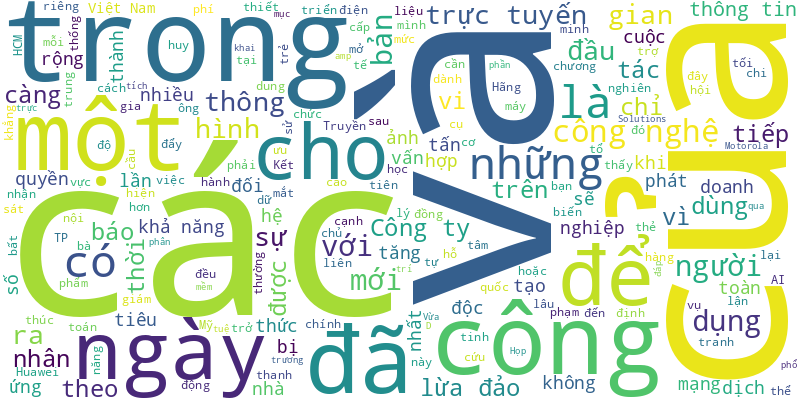
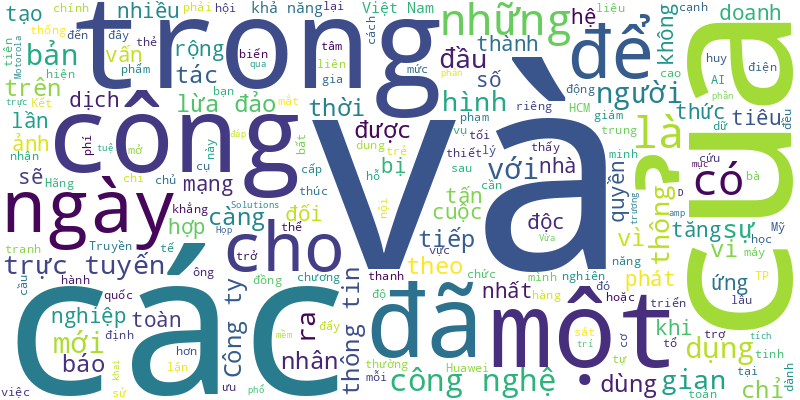
🍀 = 100%

diff --git a/README.md b/README.md
@@ -1,6 +1,15 @@
 # Tuoi Tre RSS 
 
 ## Giáo dục 
+- 'Đề thi các môn đều có sự phân hóa rõ rệt. Đây là cơ sở cần thiết đáp ứng cho yêu cầu của một kỳ thi tuyển sinh', theo Sở GD-ĐT TP.HCM.
+- Trường đại học Ngân hàng TP.HCM vừa công bố điểm chuẩn 2 phương thức xét tuyển sớm theo đề án tuyển sinh đại học năm 2024 của trường.
+- Trường đại học Luật TP.HCM vừa công bố điểm xét trúng tuyển đối với thí sinh được tuyển thẳng, xét tuyển sớm đại học chính quy năm 2024.
+- Đó là khẳng định của một trong những chuyên gia tham gia soạn thảo Luật Nhà giáo tại buổi Hội thảo góp ý Luật Nhà Giáo diễn ra tại TP.HCM ngày 21-6.
+- Sở Giáo dục và Đào tạo Khánh Hòa thông báo điểm chuẩn vào lớp 10 THPT công lập sẽ được công bố vào ngày 29-7, khiến phụ huynh, học sinh lo lắng vì chờ quá lâu.
+- Học sinh trúng tuyển vào lớp 10 một trường ở Đắk Lắk bị hủy kết quả do chậm nộp học phí, nhà trường nói làm đúng quy định.
+- Chủ tịch tỉnh Ninh Thuận yêu cầu khẩn trương xử lý triệt để, dứt điểm vụ hiệu trưởng chỉ đạo lạm thu, sai phạm hơn 800 triệu đồng.
+- Ban quản lý Khu công nghệ cao TP.HCM đề nghị Trường đại học FPT ngừng đào tạo đại học trong khu công nghệ cao, gỡ bỏ các thông tin liên quan phân hiệu.
+- Công an Đà Nẵng vừa triệt phá một đường dây sản xuất, buôn bán sách giáo khoa giả có quy mô đặc biệt lớn tại Đà Nẵng và TP.HCM.
 - Các thiết bị gian lận thi cử ngày càng tinh vi, khó phát hiện, tin đồn lan trên mạng... khiến các đơn vị, địa phương lo lắng khi kỳ thi tốt nghiệp tới gần.
 - Tối 20-6, Viện Đại học Sydney Việt Nam chính thức ra mắt tại Hà Nội, đây là viện nghiên cứu tập hợp gần 100 nhà khoa học trong và ngoài nước thực hiện các nghiên cứu đa lĩnh vực, hướng tới cải thiện đời sống người dân Việt Nam.
 - 'Con tôi bị bọn buôn người dụ dỗ, bảo sẽ giới thiệu vào làm công việc văn phòng, lương cao tại Tây Ninh nhưng sau đó lừa đưa qua Thái Lan'.
@@ -22,48 +31,38 @@
 - Trong số hơn 98.000 thí sinh dự thi lớp 10 tại TP.HCM, chỉ có 49 thí sinh đạt điểm 10 môn toán. Năm trước có 121 thí sinh.
 - Hơn 1.700 thí sinh được điểm 10 môn ngoại ngữ. Không có thí sinh nào đạt điểm thi 10 môn ngữ văn.
 - Sáng sớm 19-6, Sở Giáo dục và Đào tạo TP.HCM công bố điểm thi lớp 10 năm 2024. Thí sinh có thể tra cứu tại https://tuoitre.vn/diem-thi.htm
-- TP.HCM sẽ công bố điểm thi tuyển sinh lớp 10 năm 2024 vào lúc 9h sáng 19-6, sớm hơn dự kiến. Thí sinh có thể tra cứu nhanh tại https://tuoitre.vn/diem-thi.htm
-- Tối 18-6, Sở Giáo dục và Đào tạo TP Đà Nẵng công bố điểm chuẩn thi vào lớp 10. Năm nay Trường THPT Phan Châu Trinh có điểm chuẩn lớp 10 cao nhất với 58,38 điểm.
-- Theo tin từ hội đồng chấm thi tuyển sinh lớp 10 năm 2024 ở TP.HCM, phổ điểm môn toán năm nay khá đẹp.
-- Phụ huynh Trường tiểu học Hanh Thông (Gò Vấp, TP.HCM) phản ánh con họ phải mang những bình nước 5 lít đến trường trong suốt năm học, vì hệ thống lọc nước uống mà nhà trường lắp đặt có mùi.
-- Trường đại học Công nghệ TP.HCM (HUTECH) tổ chức Lễ khai giảng khóa đào tạo thạc sĩ, tiến sĩ đợt 1 - năm 2024 với đông đảo học viên và nghiên cứu sinh tham dự.
-- Lo ngại về thiết bị gian lận thi tốt nghiệp THPT được đặt ra trong buổi làm việc của Ban chỉ đạo thi Hà Nội với lãnh đạo Bộ Giáo dục và Đào tạo ngày 18-6.
-- Sở Giáo dục và Đào tạo TP.HCM dự kiến công bố điểm thi lớp 10 vào sáng 20-6. Thí sinh có thể tra cứu nhanh tại https://tuoitre.vn/diem-thi.htm
-- Đêm cao nguyên buốt lạnh, mưa rơi lộp độp trên lá không cản được những bước chân già trẻ hướng về lớp học đặc biệt giữa rừng Đăk Sơmei, huyện Đăk Đoa, tỉnh Gia Lai.
-- Sau khi hiệu trưởng Trường cao đẳng Y tế Quảng Nam bị khởi tố, tỉnh này yêu cầu Sở Nội vụ phối hợp Ban Tổ chức Tỉnh ủy sớm tham mưu, xin ý kiến Ban Thường vụ Tỉnh ủy giao quyền hiệu trưởng để ký, cấp các văn bằng tốt nghiệp cho sinh viên.
 ![Edu](Edu.png)
 ## Thời Sự 
-- Tin tức đáng chú ý sáng 21-6: Năm 2025 cả nước giảm 12 huyện, 624 xã; Hoa hậu H'Hen Niê đồng hành phòng chống, nâng cao nhận thức về tội phạm mua bán người; TP.HCM có nguy cơ bùng dịch sởi...
-- Theo ghi nhận của Tuổi Trẻ, tình trạng mua bán thuốc qua mạng hiện nay đang diễn ra rầm rộ trên khắp nền tảng mạng xã hội như Facebook, Zalo...
-- Hôm nay 21-6, thời tiết Bắc Bộ đến Trung Bộ ngày nắng nóng, còn Nam Trung Bộ trở vào Nam Bộ có nơi mưa to đến rất to.
-- Người đàn ông gặp nạn dưới giếng sâu 30m đã được giải cứu thành công và chuyển đến bệnh viện điều trị.
-- Tối 20-6, Viện Đại học Sydney Việt Nam chính thức ra mắt tại Hà Nội, đây là viện nghiên cứu tập hợp gần 100 nhà khoa học trong và ngoài nước thực hiện các nghiên cứu đa lĩnh vực, hướng tới cải thiện đời sống người dân Việt Nam.
-- Bị bắt phải đóng quỹ đua thuyền mỗi hộ 100.000 đồng, nhiều hộ dân đã phản ứng. Tuy nhiên chính quyền nói năm sau sẽ… rút kinh nghiệm.
-- Ngày 20-6, nhiều cơ quan đã đến thăm, chúc mừng Văn phòng đại diện báo Tuổi Trẻ tại Hà Nội nhân kỷ niệm 99 năm Ngày Báo chí cách mạng Việt Nam (21-6-1925 - 21-6-2024).
-- Chủ tịch UBND tỉnh Bạc Liêu Phạm Văn Thiều cho biết cơ quan, đơn vị nào từ chối cung cấp thông tin cho báo chí thì phóng viên báo cáo về thường trực UBND tỉnh và cá nhân ông để "tôi xử lý ngay".
-- Sau hơn 9 tháng thi công, hạng mục đường cất hạ cánh thuộc dự án sân bay Long Thành giai đoạn 1 đã vượt tiến độ 2 tháng so với hợp đồng.
-- Mây ngũ sắc rực rỡ xuất hiện trên bầu trời Hà Nội đúng giờ tan tầm, người dân thích thú chụp ảnh chia sẻ lên mạng.
-- Cầu Ninh Cường vượt sông Ninh Cơ tại Nam Định sẽ được xây dựng với tổng mức đầu tư 581 tỉ đồng để thay thế cầu phao Ninh Cường hiện nay.
-- Đến thăm và thắp nén hương cho hai vợ chồng bị đâm chết trong vụ trọng án xảy ra tại xã Nghĩa Dõng, TP Quảng Ngãi, bí thư Tỉnh ủy Quảng Ngãi nói các cấp ngành sẽ luôn bên cạnh hai cháu bé sống sót sau vụ truy sát cả nhà.
-- Hội đồng nhân dân tỉnh Bình Thuận đã thông qua nghị quyết điều chỉnh chủ trương đầu tư dự án thoát nước phía hạ lưu đường ĐT.706B - cửa ra số 2&3, TP Phan Thiết để tránh tình trạng sạt lở cát đỏ như vừa qua.
-- Sau 8 năm triển khai, Bệnh viện Bình Dân đã giúp hàng nghìn người bệnh hẹp niệu đạo thoát cảnh mang túi chứa nước tiểu suốt đời. Đây là bệnh viện đầu tiên của cả nước triển khai kỹ thuật này.
-- Việc điều chuyển cảng An Thới về UBND tỉnh Kiên Giang quản lý sẽ tạo điều kiện cho địa phương chủ động phương án, có thể khắc phục được các tồn tại trong quá trình khai thác cảng An Thới trong thời gian qua.
-- Công ty TNHH MTV Công viên cây xanh TP.HCM cho biết làm vỉa hè, đường, trám xi măng... bịt bùng quanh gốc sẽ làm cây chết dân theo thời gian.
-- Sau gần 4 năm kể từ vụ ô tô tông xe máy rơi xuống sông làm 5 người chết ở Nghệ An, một cây cầu cứng sẽ được xây dựng với số vốn gần 240 tỉ đồng, để thay thế cầu treo hiện tại.
-- Chiều 20-6, trong khuôn khổ chuyến thăm cấp nhà nước Việt Nam, Tổng thống Putin đã có cuộc hội đàm với Tổng bí thư Nguyễn Phú Trọng.
-- Mặc dù nhà thế chấp nhưng tại sao việc ký kết đặt cọc lại ‘lọt’ qua được cửa công chứng?
-- Liên danh nhà thầu cam kết sẽ hoàn thành nhà máy xử lý nước thải đặt tại phường Thạnh Mỹ Lợi 
- (TP Thủ Đức) trước 30-6-2025.
-- Loạt bài "Trăm ngàn lượt xe quá tốc độ và bất cập dữ liệu hành trình" đoạt giải nhất thể loại điều tra.
-- 'Con tôi bị bọn buôn người dụ dỗ, bảo sẽ giới thiệu vào làm công việc văn phòng, lương cao tại Tây Ninh nhưng sau đó lừa đưa qua Thái Lan'.
-- Bộ trưởng Bộ Nội vụ Phạm Thị Thanh Trà cho biết Bộ Chính trị đã thống nhất tăng lương cơ sở đồng đều cho tất cả cán bộ, công chức từ 1,8 triệu đồng lên 2.340.000 đồng từ ngày 1-7.
-- Việc trao đổi, chia sẻ giữa các tòa nhà, các tầng rất khó khăn, ảnh hưởng lớn đến nhiệm vụ cấp ủy chi bộ.
-- Chiều 20-6, tại trụ sở Chính phủ, Thủ tướng Phạm Minh Chính hội kiến Tổng thống Liên bang Nga Vladimir Putin thăm cấp Nhà nước tới Việt Nam.
-- Con đường cặp mé sông Ông Vẽ, huyện Cái Bè, tỉnh Tiền Giang vừa mới được đầu tư xây dựng, người dân chưa kịp vui mừng thì đã bị sạt lở xuống sông.
-- Từ 15h ngày 20-6, giá xăng dầu tiếp tục thay đổi, mỗi lít xăng RON95 lên 22.460 đồng/lít, tăng 230 đồng.
-- Ngay sau cuộc hội đàm trưa 20-6, Chủ tịch nước Tô Lâm và Tổng thống Putin đã chứng kiến lễ trao nhiều văn kiện hợp tác được ký kết nhân chuyến thăm.
-- Đáng chú ý đa số trẻ mắc bệnh này chưa đến độ tuổi tiêm chủng hoặc chưa tiêm vắc xin đầy đủ.
-- Gần 360ha cao su tươi tốt đang kỳ cho mủ mọc trên đất rừng phòng hộ tại Gia Lai không có ai nhận là chủ, nhưng vẫn khai thác thường xuyên.
+- Bộ Chính trị đã thống nhất từ ngày 1-7 sẽ tăng tiền lương cơ sở từ 1,8 triệu đồng lên 2,34 triệu đồng (30%) cho tất cả cán bộ, công chức.
+- Một số tin tức đáng chú ý: Đề xuất thời gian làm việc trong năm học của giáo viên phổ thông là 42 tuần; Đông Nam Bộ còn 7 đợt triều cường; Tích hợp thông tin thẻ bảo hiểm y tế lên VNeID...
+- Hôm nay 22-6, thời tiết Bắc Bộ và Nam Bộ mưa to, chủ yếu vào đêm và sáng sớm, Trung Bộ ngày nắng.
+- Đó là nhận định của Bộ trưởng Bộ Ngoại giao Bùi Thanh Sơn, khi trả lời phỏng vấn sau chuyến thăm của Tổng thống Putin ngày 19 và 20-6 vừa qua.
+- Chủ tịch nước Tô Lâm gửi tới các thế hệ nhà báo những tình cảm thân thiết, lời thăm hỏi ân cần, lời chúc mừng tốt đẹp nhất của Tổng bí thư Nguyễn Phú Trọng nhân kỷ niệm 99 năm Ngày Báo chí cách mạng Việt Nam.
+- Do nhầm lẫn số hiệu hai chuyến bay có số hiệu gần giống nhau nên kiểm soát viên không lưu đã để hai máy bay vi phạm phân cách an toàn.
+- Theo Công ty Thủy điện Ialy, nguyên nhân ban đầu khiến cá chết do mưa lớn làm rửa trôi bùn đất và phù sa vùng bán ngập đổ xuống lòng hồ nơi đặt lồng nuôi cá.
+- Việc Vườn Quốc gia Cát Tiên đạt danh hiệu Danh lục Xanh là sự công nhận nỗ lực của đội ngũ tại đây trong công tác bảo tồn thiên nhiên và bảo tồn đa dạng sinh học.
+- Đường dây cá độ bóng đá dựa trên các giải trong, ngoài nước (kể cả Euro 2024) với trị giá giao dịch, cá cược khoảng 8 triệu USD/tháng.
+- Cơ quan chức năng của TP.HCM sẽ thường xuyên theo dõi, kiểm tra để có phương án tổ chức giao thông tối ưu cho khu vực thi công nút giao An Phú (TP Thủ Đức, TP.HCM).
+- Giải báo chí tỉnh Kiên Giang năm 2024, báo Tuổi Trẻ đoạt giải ba và giải khuyến khích.
+- Ban Thường vụ Tỉnh ủy Lâm Đồng đã điều động, chỉ định ông Trần Trung Hiếu làm bí thư Huyện ủy Đức Trọng.
+- Bộ Lao động - Thương binh và Xã hội đang lấy ý kiến cơ quan liên quan về tăng mức chuẩn trợ cấp xã hội từ 360.000 đồng/tháng lên 500.000 đồng/tháng.
+- Cơ quan chức năng đề nghị lập đoàn thanh tra liên ngành để thanh tra toàn diện dự án điện gió Tân Tấn Nhật - Đăk Glei tại tỉnh Kon Tum vì liên tiếp sai phạm.
+- Ban Chấp hành Trung ương Đảng đồng ý để ông Đinh Tiến Dũng thôi giữ chức vụ ủy viên Bộ Chính trị, ủy viên Ban Chấp hành Trung ương Đảng khóa XIII.
+- Bộ trưởng Bộ Tài nguyên và Môi trường Đặng Quốc Khánh cho hay các luật liên quan bất động sản với nhiều chính sách mới sẽ góp phần giải quyết những tồn đọng, vướng mắc trong phát triển kinh tế, xã hội lâu nay.
+- Đó là chia sẻ của ông Nguyễn Tấn Tuân - chủ tịch UBND tỉnh Khánh Hòa trong buổi thăm Văn phòng đại diện  báo Tuổi Trẻ khu vực Nam Trung Bộ - Tây Nguyên.
+- Dự báo khoảng ngày 23 đến 24-6, trên Biển Đông có khả năng hình thành vùng áp thấp và sau đó mạnh lên thành áp thấp nhiệt đới.
+- Một sản phụ suy đa tạng do vỡ tử cung, hoại tử ruột non khi mang thai ở tuần thứ 32 vừa được các bác sĩ tại ba bệnh viện ở TP.HCM phối hợp cứu sống.
+- Ngày 21-6, ông Đặng Vĩnh Sơn - trưởng Ban Quản lý khu kinh tế tỉnh Bình Định - cho biết đã ban hành quyết định chấm dứt hoạt động đối với dự án khu vui chơi giải trí đầm Thị Nại tại xã Nhơn Hội (TP Quy Nhơn).
+- Sau thời gian điều tra mở rộng, Công an tỉnh An Giang đã khởi tố, bắt tạm giam 3 người liên quan đến vụ đưa hơn nửa triệu USD qua Campuchia.
+- Bộ Y tế vừa tiếp nhận 65.000 lọ thuốc điều trị cho người nhiễm HIV, do Chính phủ Úc viện trợ thông qua hợp tác với Tổ chức Y tế thế giới.
+- Cà Mau vừa có quyết định thành lập khu bảo tồn biển rộng 27.000ha nhằm bảo vệ và bảo tồn nguồn lợi thủy sản, bảo vệ môi trường và các hệ sinh thái gắn với phát triển du lịch sinh thái bền vững.
+- Liên quan đến cá nhân hành nghề tư vấn định giá đất, Bộ Tài nguyên và Môi trường đề xuất quy định rõ các điều kiện của cơ sở đào tạo, bồi dưỡng nghiệp vụ về giá đất.
+- Vụ tai nạn liên hoàn trên quốc lộ 1 đoạn qua đèo Quán Cau (huyện Tuy An, tỉnh Phú Yên) khiến 3 ô tô hư hỏng, gây ùn ứ giao thông nhiều giờ.
+- Hàng chục tấn cá lăng đặc sản sắp thu hoạch của người dân nuôi trên hồ thủy điện Ialy (Kon Tum) bất ngờ chết hàng loạt.
+- Chuyến đi của Trợ lý ngoại trưởng Mỹ Daniel J. Kritenbrink đến Hà Nội hôm nay 21-6, mang theo các cam kết của Mỹ trong quan hệ với Việt Nam.
+- Đại tá Nguyễn Hồng Phong - 45 tuổi, giám đốc Công an tỉnh Hà Tĩnh - được điều động, bổ nhiệm làm giám đốc Công an tỉnh Đồng Nai.
+- Sáng 21-6, Viện kiểm sát nhân dân, Công an huyện Đắk Glong, tỉnh Đắk Nông tổ chức buổi xin lỗi công khai hai vợ chồng 8 năm bị khởi tố, 4 tháng bắt giam oan ức.
+- Trên website của chùa Ba Vàng ngày 21-6 thông báo khóa tu mùa hè (sau khóa 1) của chùa Ba Vàng năm nay sẽ tạm hoãn.
 ![New](News.png)
 ## Nhịp sống số 
 - Vừa qua, Motorola Solutions đã khai trương trung tâm R&amp;D tại TP.HCM, với mục tiêu thúc đẩy nghiên cứu và phát triển phần mềm, phân tích dữ liệu và công nghệ trí tuệ nhân tạo (AI).
